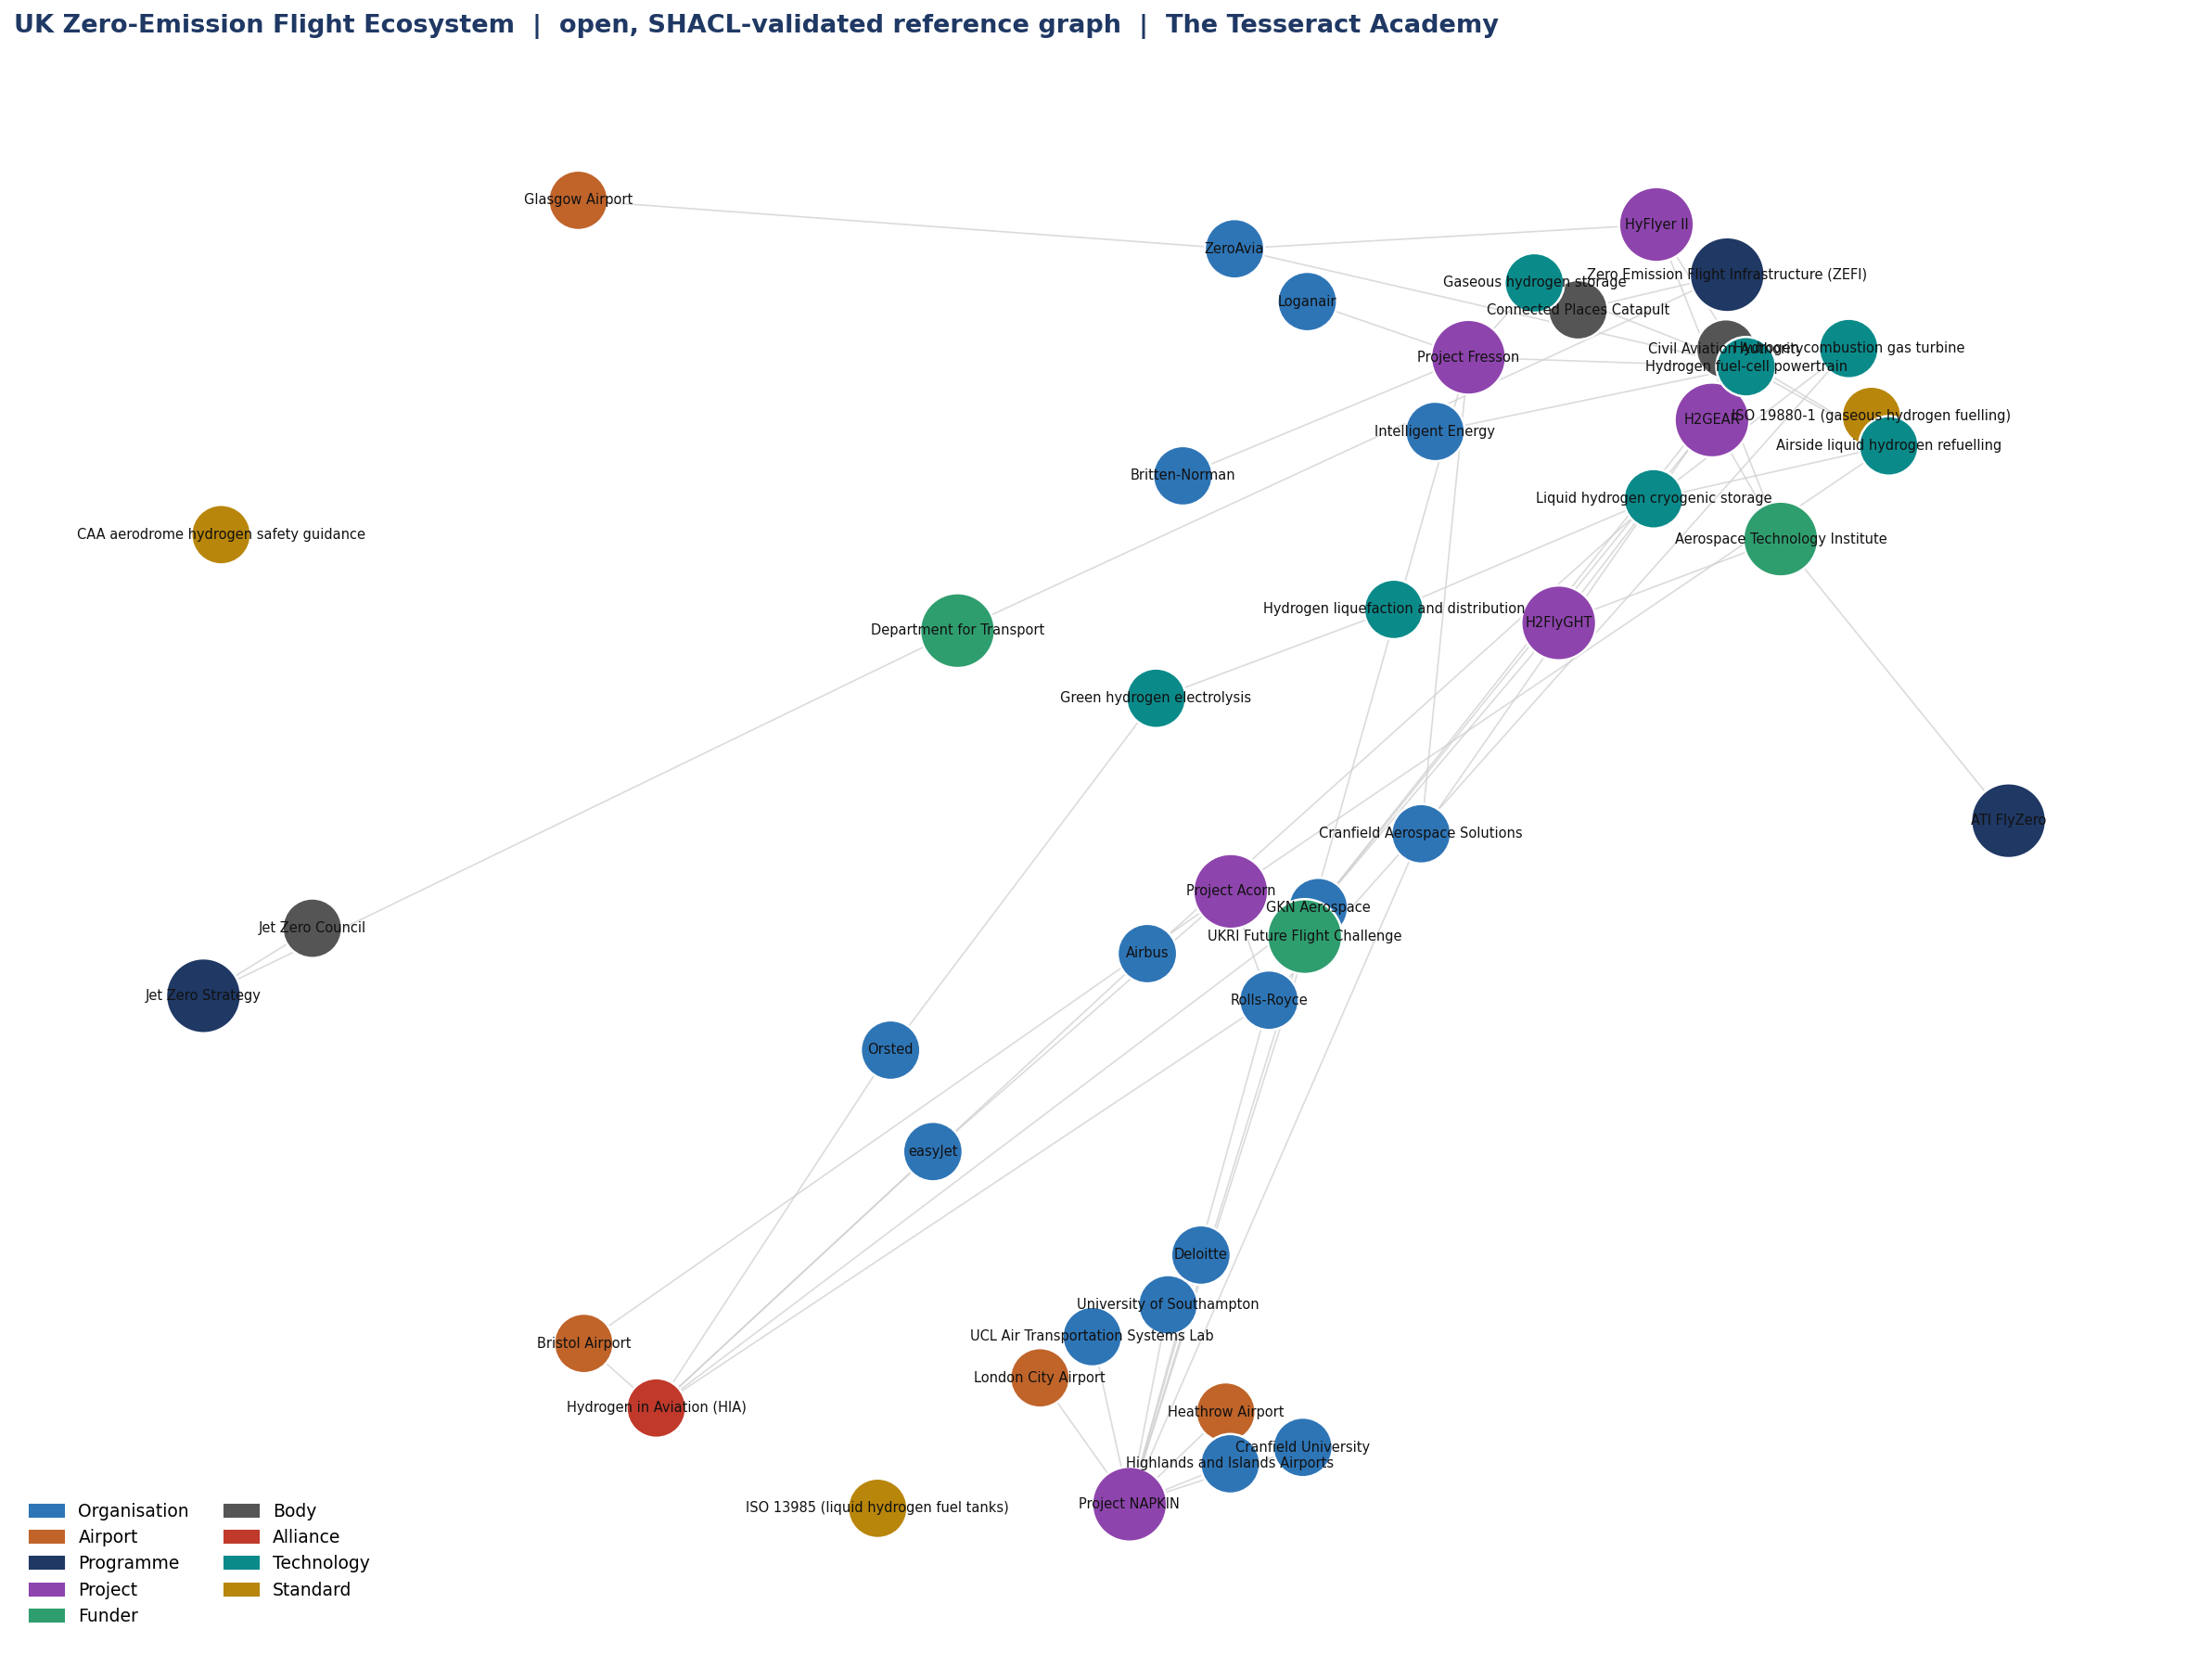
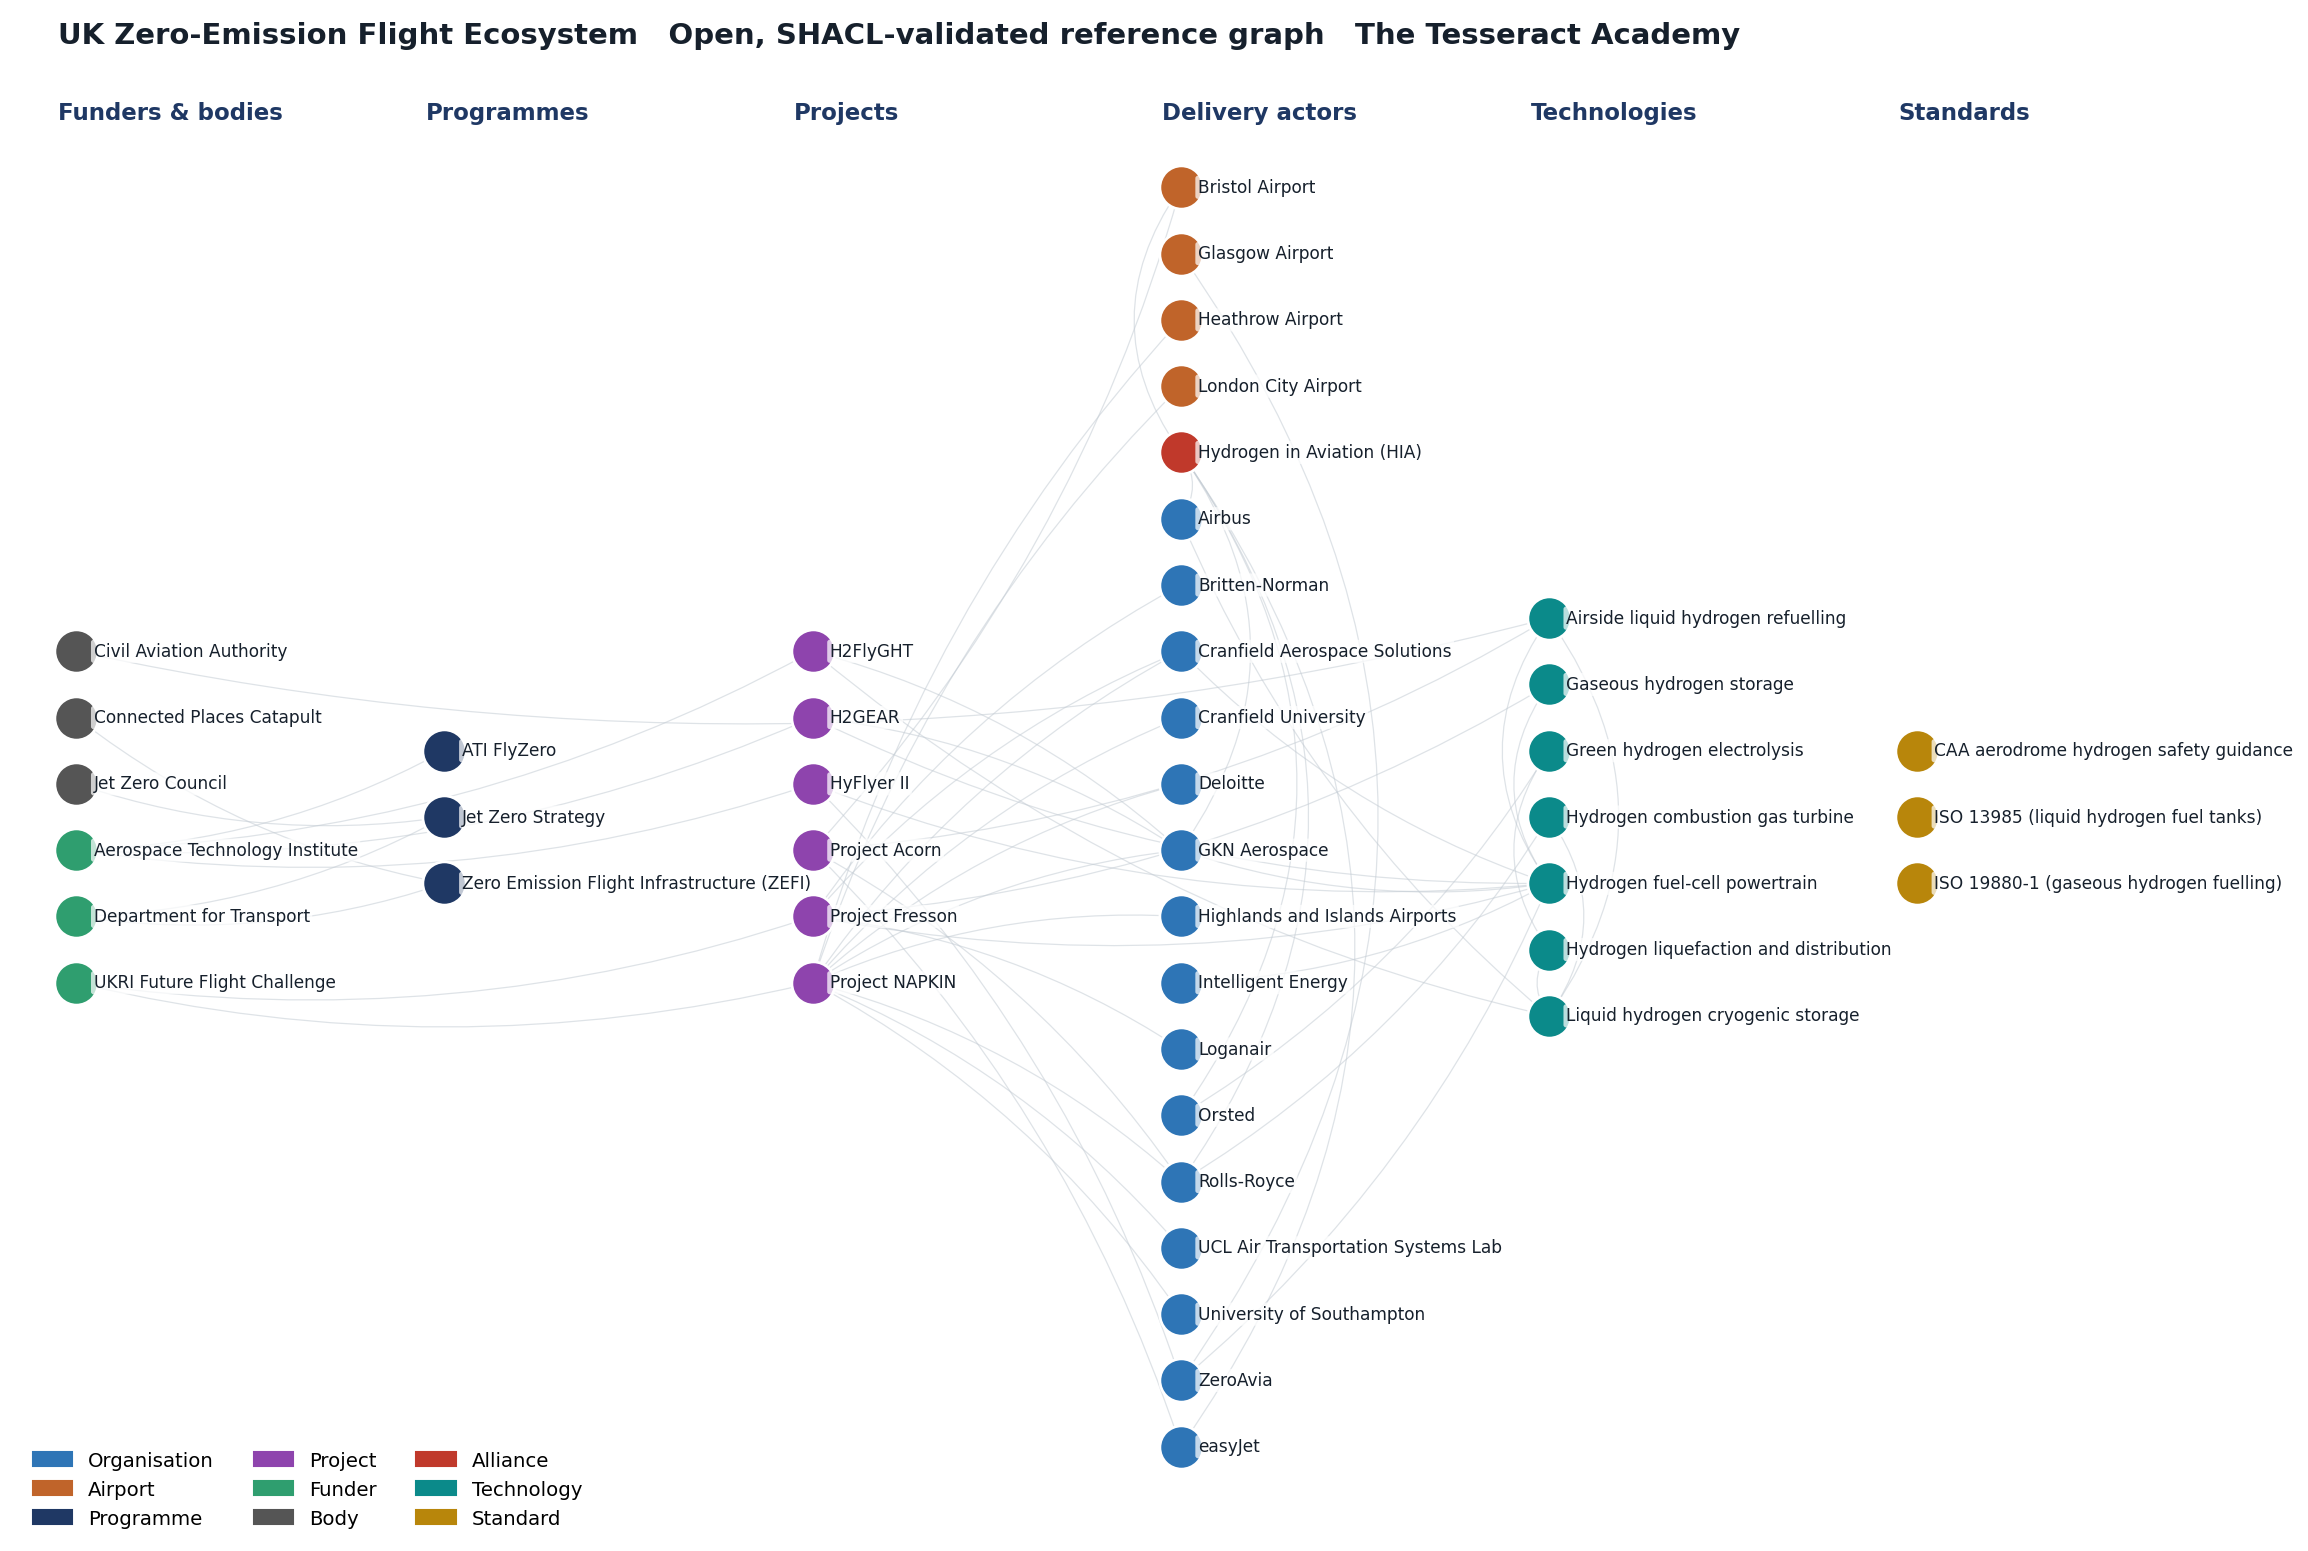
Clearer ecosystem graph: columnar stakeholder-map layout with legible labels
Replace force-directed hairball with a role-columned layout (funders/bodies,
programmes, projects, delivery actors, technologies, standards), halo-backed
non-overlapping labels and light curved edges.

diff --git a/case-studies/zero-emission-aviation/pipeline/build_and_validate.py b/case-studies/zero-emission-aviation/pipeline/build_and_validate.py
@@ -148,27 +148,57 @@ def export_demo_json(data, path):
     json.dump({"nodes": nodes, "edges": edges}, open(path, "w"), indent=1)
 
 def render_png(data, path):
+    """Clean columnar 'stakeholder map': nodes grouped into role columns with
+    evenly spaced, halo-backed labels and light curved edges. Far more legible
+    than a force-directed hairball at this node count."""
     import matplotlib; matplotlib.use("Agg")
     import matplotlib.pyplot as plt
-    from matplotlib.patches import Patch
-    import networkx as nx
-    G = nx.DiGraph()
+    from matplotlib.patches import Patch, FancyArrowPatch
+    # role -> column index; columns are ordered left (upstream policy/funding) to right
+    COL = {"Funder": 0, "Body": 0, "Programme": 1, "Project": 2,
+           "Organisation": 3, "Airport": 3, "Alliance": 3, "Technology": 4, "Standard": 5}
+    HEAD = {0: "Funders & bodies", 1: "Programmes", 2: "Projects",
+            3: "Delivery actors", 4: "Technologies", 5: "Standards"}
+    XGAP = 6.0
+    ents = {e["id"]: e for e in data["entities"]}
+    cols = {}
     for e in data["entities"]:
-        G.add_node(e["id"], label=e["label"], type=e["type"])
+        cols.setdefault(COL[e["type"]], []).append(e)
+    pos, node_col = {}, {}
+    for c, items in cols.items():
+        items.sort(key=lambda e: (e["type"], e["label"]))
+        n = len(items)
+        for i, e in enumerate(items):
+            y = (n - 1) / 2.0 - i               # centre the column vertically
+            pos[e["id"]] = (c * XGAP, y * 1.15)
+            node_col[e["id"]] = c
+
+    fig, ax = plt.subplots(figsize=(19, 13)); ax.axis("off")
+    # edges as light curved arrows
     for r in data["relations"]:
-        if r["s"] in G and r["o"] in G:
-            G.add_edge(r["s"], r["o"])
-    pos = nx.spring_layout(G, k=1.1, iterations=250, seed=7)
-    fig, ax = plt.subplots(figsize=(16, 12)); ax.axis("off")
-    cols = [TYPE_COL[G.nodes[n]["type"]] for n in G.nodes]
-    sizes = [1500 if G.nodes[n]["type"] in ("Programme", "Project", "Funder") else 950 for n in G.nodes]
-    nx.draw_networkx_edges(G, pos, ax=ax, edge_color="#cfcfcf", arrows=True, arrowsize=8, width=0.8, alpha=0.75)
-    nx.draw_networkx_nodes(G, pos, ax=ax, node_color=cols, node_size=sizes, edgecolors="white", linewidths=1.2)
-    nx.draw_networkx_labels(G, pos, labels={n: G.nodes[n]["label"] for n in G.nodes}, font_size=7, font_color="#111", ax=ax)
-    ax.legend(handles=[Patch(color=c, label=t) for t, c in TYPE_COL.items()], loc="lower left", fontsize=9, frameon=False, ncol=2)
-    ax.set_title("UK Zero-Emission Flight Ecosystem  |  open, SHACL-validated reference graph  |  The Tesseract Academy",
-                 fontsize=13, fontweight="bold", color="#1f3864", loc="left", pad=16)
-    plt.tight_layout(); plt.savefig(path, dpi=150, bbox_inches="tight"); plt.close()
+        if r["s"] in pos and r["o"] in pos:
+            x1, y1 = pos[r["s"]]; x2, y2 = pos[r["o"]]
+            rad = 0.12 if node_col[r["s"]] != node_col[r["o"]] else 0.35
+            ax.add_patch(FancyArrowPatch((x1, y1), (x2, y2), connectionstyle=f"arc3,rad={rad}",
+                         arrowstyle="-|>", mutation_scale=8, lw=0.6, color="#c4ccd4", alpha=0.55, zorder=1))
+    # nodes + labels
+    for e in data["entities"]:
+        x, y = pos[e["id"]]; col = TYPE_COL[e["type"]]
+        ax.scatter([x], [y], s=430, c=col, edgecolors="white", linewidths=1.3, zorder=3)
+        ax.text(x + 0.28, y, e["label"], va="center", ha="left", fontsize=8.2, color="#16202c", zorder=4,
+                bbox=dict(facecolor="white", edgecolor="none", alpha=0.72, pad=0.6, boxstyle="round,pad=0.15"))
+    # reserve headroom so the title sits clearly above the column headers
+    ys = [p[1] for p in pos.values()]; ymin_n, ymax_n = min(ys), max(ys)
+    ax.set_ylim(ymin_n - 1.2, ymax_n + 3.0)
+    ax.set_xlim(-1.0, 5 * XGAP + 5.0)
+    for c, title in HEAD.items():
+        ax.text(c * XGAP - 0.3, ymax_n + 1.1, title, ha="left", va="bottom",
+                fontsize=11, fontweight="bold", color="#1f3864")
+    ax.text(-0.3, ymax_n + 2.4, "UK Zero-Emission Flight Ecosystem   Open, SHACL-validated reference graph   The Tesseract Academy",
+            ha="left", va="bottom", fontsize=14, fontweight="bold", color="#16202c")
+    ax.legend(handles=[Patch(color=cc, label=t) for t, cc in TYPE_COL.items()],
+              loc="lower left", fontsize=9.5, frameon=False, ncol=3, bbox_to_anchor=(0, -0.02))
+    plt.savefig(path, dpi=150, bbox_inches="tight"); plt.close()
 
 def main():
     data = json.load(open(os.path.join(HERE, "data", "ecosystem.json")))